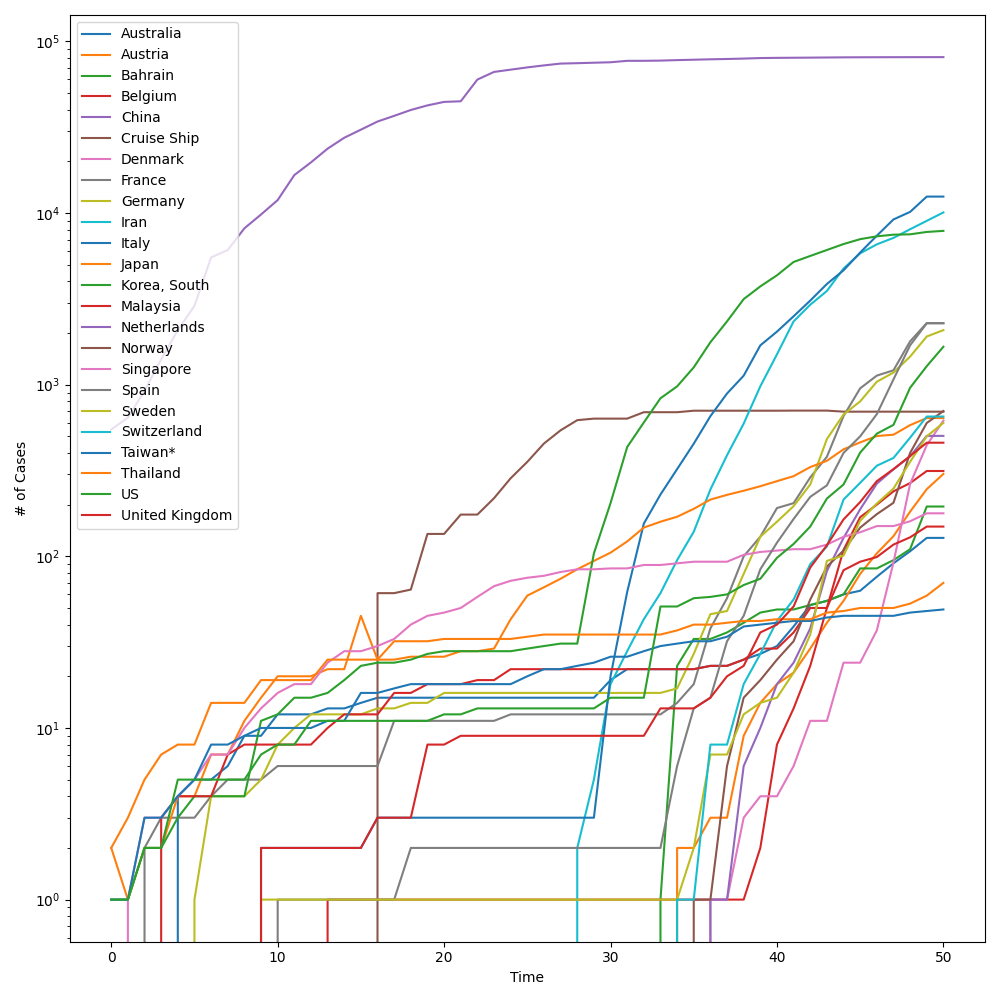
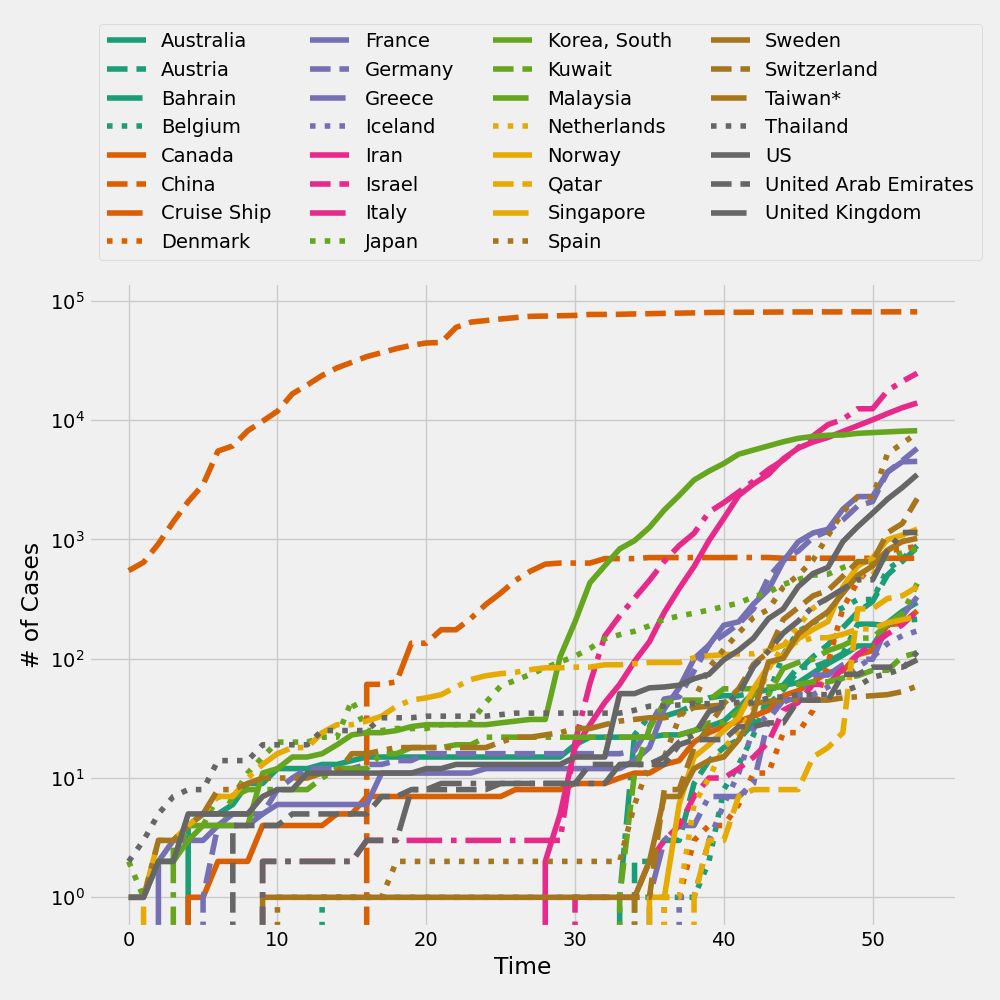
updating data and plots

diff --git a/exp/viz.py b/exp/viz.py
@@ -17,6 +17,9 @@ import numpy as np
 import json
 import matplotlib.pyplot as plt
 
+plt.style.use('fivethirtyeight')
+
+
 # ------------ HYPERPARAMETERS -------------
 BASE_PATH = '../COVID-19/csse_covid_19_data/'
 MIN_CASES = 1000
@@ -30,7 +33,23 @@ confirmed = data.load_csv_data(confirmed)
 features = []
 targets = []
 
-plt.figure(figsize=(10, 10))
+fig = plt.figure(figsize=(10, 10))
+ax = fig.add_subplot(111)
+cm = plt.get_cmap('Dark2')
+NUM_COLORS = 0
+LINE_STYLES = ['solid', 'dashed', 'dashdot', 'dotted']
+NUM_STYLES = len(LINE_STYLES)
+
+for val in np.unique(confirmed["Country/Region"]):
+    df = data.filter_by_attribute(
+        confirmed, "Country/Region", val)
+    cases, labels = data.get_cases_chronologically(df)
+    cases = cases.sum(axis=0)
+
+    if cases.sum() > MIN_CASES:
+        NUM_COLORS += 1
+
+ax.set_prop_cycle('color', [cm(i) for i in np.linspace(0, 1, NUM_COLORS)])
 legend = []
 
 for val in np.unique(confirmed["Country/Region"]):
@@ -40,12 +59,15 @@ for val in np.unique(confirmed["Country/Region"]):
     cases = cases.sum(axis=0)
 
     if cases.sum() > MIN_CASES:
-        plt.ylabel('# of Cases')
-        plt.xlabel("Time")
-        plt.plot(cases)
+        i = len(legend)
+        lines = ax.plot(cases, label=labels[0,1])
+        lines[0].set_linestyle(LINE_STYLES[i%NUM_STYLES])
         legend.append(labels[0, 1])
 
-plt.yscale('log')
-plt.legend(legend)
+ax.set_ylabel('# of Cases')
+ax.set_xlabel("Time")
+
+ax.set_yscale('log')
+ax.legend(legend, bbox_to_anchor=(0., 1.02, 1., .102), loc=3, ncol=4)
 plt.tight_layout()
 plt.savefig('results/cases_by_country.png')
